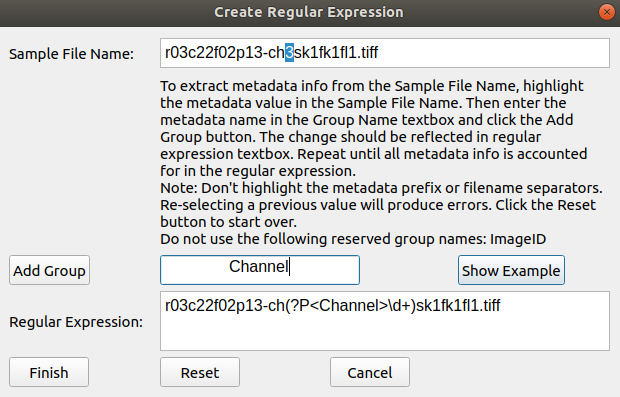
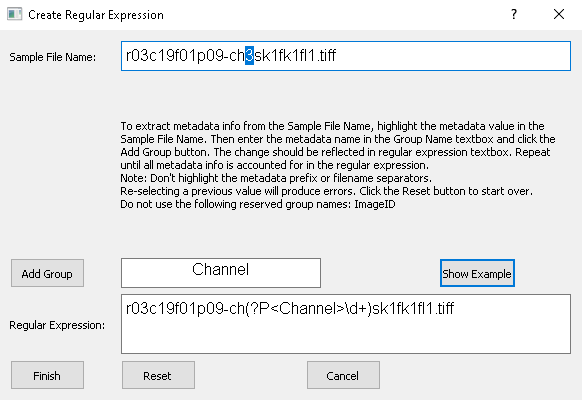
Fix operation of regex builder, include correct and incorrect examples (#5)
* add scrollbars to selectwindow (#113)

* remove commented-out lines/packages, edit comments, error if featurefile path not found (#114)

* import/export session fix + manual, regex example image pyinstaller (#115)

* Correct the methodology used in regex builder (#116)

* Package regex_example.png with executable and allow access to it in temp directory

* Correct regex builder method. Clean up debugging code.

* Improve detail of the comment in addRegexGroup

* Minor correction to comment

* add regex example (#117)

diff --git a/Phindr3D-Python/src/GUI/windows/regexWindow.py b/Phindr3D-Python/src/GUI/windows/regexWindow.py
@@ -17,7 +17,6 @@
 from PyQt5.QtWidgets import *
 from PyQt5.QtGui import *
 from PyQt5.QtCore import *
-# import re
 from array import *
 import os
 
@@ -29,7 +28,8 @@ class regexWindow(QDialog):
         self.samplefile = ""
         self.regex = r""
         # Use the Python array datatype to track map from filename to regex
-        self.fileToRegexPos = array('I')
+        # (type signed int)
+        self.fileToRegexPos = array('i')
         # There are column headers (groups) that are reserved or generated by
         # the metadata file writer. The list is below. Add the 'append' value to fix
         self.reservedKeys = ["ImageID"]
@@ -95,15 +95,19 @@ class regexWindow(QDialog):
         cancel.setFixedSize(cancel.minimumSizeHint())
         cancel.setFixedHeight(30)
 
-
-
         def addRegexGroup():
-            # The array fileToRegex tracks the change in indices of letters
+            # The array fileToRegexPos tracks where characters in
+            # the original sample file are in the regular expression
             # as group labels are added to the regex
+            # Use 9999 as the previous use value for safety. The type of fileToRegexPos
+            # is set to 'i' (signed int), but if it is set to 'I' (unsigned int),
+            # using -1 as the previousUseVal crashes the program (full crash, not Python error).
+            previousUseVal = 9999
             try:
                 filename = self.samplefilebox.toPlainText()
                 cursor = self.samplefilebox.textCursor()
                 selstart = cursor.selectionStart()
+                # cursor.selectionEnd returns the next index AFTER the selection
                 selend = cursor.selectionEnd()
                 sellength = len(cursor.selectedText())
                 groupName = groupbox.text()
@@ -117,7 +121,19 @@ class regexWindow(QDialog):
                 errWin.exec()
                 return
 
+            # Test all values in the selection. If any are equal to previousUseVal,
+            # part of this text was included in a previous selection.
+            # Show error window and return from this function
+            testVal = any(ele == previousUseVal for ele in self.fileToRegexPos[selstart:selend])
+            if testVal:
+                errWin = self.buildErrorWindow("You have already defined a group that includes part or all "
+                    + "of your current selection. To redefine parts of the file name, click Reset to start over.",
+                    QMessageBox.Critical, "Previously Selected Characters")
+                errWin.exec()
+                return
+
             groupValue = filename[selstart:selend]
+
             # If no group name has been entered, do nothing
             # Otherwise, check if it is in the reserved keys list and fix it
             if groupName == "" or groupName is None:
@@ -137,14 +153,21 @@ class regexWindow(QDialog):
                 reend = self.fileToRegexPos[selend]
             except IndexError:
                 return
+
             # Insert the grouplabel into the regex
             self.regex = self.regex[:restart] + grouplabel + self.regex[reend:]
+
+            # Set the selected characters to previousUseVal
+            for ix in range(selstart, selend):
+                self.fileToRegexPos[ix] = int(previousUseVal)
+
             # Get the length of grouplabel, and move the indices in fileToRegex
             lenGroupLabel = len(grouplabel)
             # Number of elements in the array after the new insertion
-            elAfterLabel = len(self.fileToRegexPos[selstart:])
-            for changeIndex in range(elAfterLabel):
-                self.fileToRegexPos[selstart+changeIndex-1] += (lenGroupLabel-sellength)
+            elAfterLabel = len(self.fileToRegexPos[selend:])
+            for cx in range(elAfterLabel):
+                addVal = 0 if self.fileToRegexPos[selend+cx] == previousUseVal else (lenGroupLabel - sellength)
+                self.fileToRegexPos[selend+cx] += addVal
 
             self.regexview.setText(self.regex)
             groupbox.clear()
@@ -157,9 +180,10 @@ class regexWindow(QDialog):
             self.regexview.setText(self.regex)
             groupbox.clear()
             groupbox.setPlaceholderText("Group Name")
-            # Reset the array
-            self.fileToRegexPos = array('I')
+            # Reset the array (type signed int)
+            self.fileToRegexPos = array('i')
             # Fill the index values in the array
+            # (back to first positions)
             for ix in range(len(self.samplefile)):
                 self.fileToRegexPos.append(ix)
 
@@ -191,8 +215,8 @@ class regexWindow(QDialog):
         self.samplefilebox.setText(self.samplefile)
         self.regex = self.samplefile
         self.regexview.setText(self.regex)
-        # Reset the array
-        self.fileToRegexPos = array('I')
+        # Reset the array (type signed int)
+        self.fileToRegexPos = array('i')
         # Fill the index values in the array
         for ix in range(len(self.samplefile)):
             self.fileToRegexPos.append(ix)
@@ -204,21 +228,34 @@ class regexWindow(QDialog):
         alert.setIcon(icon)
         return alert
 
+import sys
 class example_regex(QDialog):
     def __init__(self):
         super(example_regex, self).__init__()
         layout = QGridLayout()
         self.setWindowTitle("Example Regex")
+        try:
+            # _MEIPASS is a temporary directory that only exists
+            # while running a compiled executable
+            path = sys._MEIPASS #run Phindr.exe (pyinstaller temp folder)
+        except:
+            path = os.path.dirname(os.path.abspath(__file__)) #run Phindr.py script
 
-        examplelabel = QLabel("Ex) If trying to extract ch3 which represents Channel 3, highlight 3 and put Channel in the Group Name textbox then click Add Group")
-        examplelabel.setWordWrap(True)
-        #example image
-        img = QLabel()
-        path = os.path.dirname(os.path.abspath(__file__))
-        img.setPixmap(QPixmap(os.path.join(path, 'regex_example.png')))
+        # example image 1
+        examplelabel1 = QLabel("Ex 1) If trying to extract ch3 which represents Channel 3, highlight 3 and put Channel in the Group Name textbox then click Add Group")
+        examplelabel1.setWordWrap(True)
+        ex1_img = QLabel()
+        ex1_img.setPixmap(QPixmap(os.path.join(path, 'regex_example.png')))
+        #example image 2
+        examplelabel2 = QLabel("Ex 2) Don't highlight metadata prefix/separators in Sample File Name. In the example below 'f01' represents Field 01 where 'f' is the metadata prefix")
+        examplelabel2.setWordWrap(True)
+        incorrect_img = QLabel()
+        incorrect_img.setPixmap(QPixmap(os.path.join(path, 'regex_incorrect_example.png')))
         #add Widgets/layout
-        layout.addWidget(examplelabel, 0, 0)
-        layout.addWidget(img, 1, 0)
+        layout.addWidget(examplelabel1, 0, 0)
+        layout.addWidget(ex1_img, 1, 0, Qt.AlignCenter)
+        layout.addWidget(examplelabel2, 2, 0)
+        layout.addWidget(incorrect_img, 3, 0)
         self.setLayout(layout)
         self.show()
         self.exec()
@@ -231,6 +268,9 @@ if __name__ == '__main__':
 
     # Set test file
     window.samplefile = "r03c19f01p09-ch1sk1fk1fl1.tiff"
+    # window.samplefile = "image1__T111__z2__ch3__dla.tiff"
+    # window.samplefile = "Wr02c02__F1__Z2__CH2__ID1__OB2.tiff"
+    # window.samplefile = "P1__Wr02c02__F1__CH1__TEV__Z50__ID1__OB1.tiff"
 
     window.inputSampleFile()
     window.show()

diff --git a/Phindr3D-Python/src/GUI/MainGUI.py b/Phindr3D-Python/src/GUI/MainGUI.py
@@ -92,17 +92,41 @@ class MainGUI(QWidget, external_windows):
                 #retrieve and set imported data
                 curfile=self.metadata.GetMetadataFilename()
                 with open(filename, 'rb') as f:
-                    self.metadata = pickle.load(f)
-                    self.metapandas = pd.DataFrame.from_dict(pickle.load(f), orient='index').T #metadata file as pandas dataframe
+                    session = pickle.load(f)
+                    session_pd = pd.DataFrame.from_dict(pickle.load(f), orient='index').T #metadata file as pandas dataframe
                     data= pickle.load(f)
-                    if not param:
+                    if not param: #imports the session
+                        self.metadata = session
+                        self.metapandas = session_pd
                         self.color = data.get('color')
                         self.ch_len= data.get('ch_len')
-                    else:
+                        self.bounds = data.get('bounds')[0]
+                        self.thresh = data.get('threshold')[0]
+                    else: #imports the parameters
                         self.metadata.SetMetadataFilename(curfile)# retain current metadatafile name if only parameters
-                        del self.metapandas
-                    self.bounds = data.get('bounds')[0]
-                    self.thresh = data.get('threshold')[0]
+                        self.metadata.countBackground=session.countBackground
+                        self.metadata.theTileInfo=session.theTileInfo
+                        metaheader = list(pd.read_csv(self.metadata.GetMetadataFilename(), nrows=1, sep='\t'))
+                        #check compatibility of imported trainingcol
+                        if session.trainbycondition and session.trainingColforImageCategories in metaheader:
+                            self.metadata.trainbycondition=session.trainbycondition
+                            self.metadata.trainingColforImageCategories=session.trainingColforImageCategories
+                        #check compatibility of imported threshold/bounds
+                        if np.shape(self.thresh)== np.shape(data.get('threshold')[0]) and np.shape(self.bounds) == np.shape(data.get('bounds')[0]):
+                            self.thresh = data.get('threshold')[0]
+                            self.bounds = data.get('bounds')[0]
+                        #check compatibility of imported normpertreatment
+                        if session.intensityNormPerTreatment and session.treatmentColNameForNormalization in metaheader:
+                            metacol=pd.read_csv(self.metadata.GetMetadataFilename(), sep='\t', usecols=[session.treatmentColNameForNormalization])
+                            self.metadata.intensityNormPerTreatment = session.intensityNormPerTreatment
+                            self.metadata.treatmentColNameForNormalization = session.treatmentColNameForNormalization
+                            if(metacol[session.treatmentColNameForNormalization].nunique(), self.ch_len) == np.shape(data.get('bounds')[0])[1:]:
+                                self.bounds = data.get('bounds')[0]
+                                self.thresh = data.get('threshold')[0]
+                            else:
+                                self.metadata.computeImageParameters()
+                                self.thresh = self.metadata.intensityThresholdValues
+                                self.bounds = [self.metadata.lowerbound, self.metadata.upperbound]
                     self.voxelGroups = VoxelGroups(self.metadata)
                     self.voxelGroups.numVoxelBins = data.get('numVoxelBins')
                     self.voxelGroups.numMegaVoxelBins = data.get('numMegaVoxelBins')
@@ -550,7 +574,6 @@ class MainGUI(QWidget, external_windows):
         alert.exec()
 
     def closeEvent(self, event):
-        #print("closed all windows")
         for window in QApplication.topLevelWidgets():
             window.close()
 

diff --git a/Phindr3D-Python/src/VoxelGroups/VoxelGroups.py b/Phindr3D-Python/src/VoxelGroups/VoxelGroups.py
@@ -14,7 +14,6 @@
 # You should have received a copy of the GNU General Public License
 # along with Phindr3D.  If not, see <http://www.gnu.org/licenses/>.
 
-#from mahotas.features import texture
 import time
 import imageio.v2 as io
 import matplotlib.pyplot as plt
@@ -81,10 +80,6 @@ class VoxelGroups():
         self.pixelImage.getPixelBinCenters(self.metadata, training)
         self.superVoxelImage.getSuperVoxelBinCenters(self.metadata, training, self.pixelImage)
         self.megaVoxelImage.getMegaVoxelBinCenters(self.metadata, training, self.pixelImage, self.superVoxelImage)
-
-        print("Pixels:", self.pixelImage.pixelBinCenters)
-        print("Super Voxels:", self.superVoxelImage.superVoxelBinCenters)
-        print("Mega Voxels:", self.megaVoxelImage.megaVoxelBinCenters)
 
         return True
     # end phindVoxelGroups
@@ -169,7 +164,6 @@ class VoxelGroups():
         if csv_name[-4:] != '.txt':
             csv_name = csv_name + '.txt'
         df.to_csv(csv_name, index=None, sep='\t')
-        print('\nAll done.')
         #return param, resultIM, resultRaw, df #, metaIndexTmp
         # Missing a first parameter from the return list
         return resultIM, resultRaw, df  # , metaIndexTmp
@@ -220,14 +214,6 @@ if __name__ == '__main__':
         test_portion = test_output.iloc[:, -41:]
         print('Phindr3D output matches expected results:', (test_portion.equals(expected_portion)))
         os.remove('testdata/metadata_tests/check_results.txt')
-
-
-
-
-    #load metadata, compute parameters
-    #phind bincenters in a deterministic manner + compare to expected result
-    #compute phindr3D results on synthetic image set with the deterministic bincenters + compare to expected results.
-
     else:
         print("loadMetadataFile was unsuccessful")
 

diff --git a/Phindr3D-Python/src/GUI/windows/helperclasses.py b/Phindr3D-Python/src/GUI/windows/helperclasses.py
@@ -84,6 +84,11 @@ class selectWindow(object):
             ch_vbox.addStretch(1)
             ch_box.setLayout(ch_vbox)
             win.layout().addWidget(ch_box, 0, 2)
+            #Scroll if labels exceed window size
+            scrollArea = QScrollArea()
+            scrollArea.setWidget(ch_box)
+            scrollArea.setWidgetResizable(True)
+            win.layout().addWidget(scrollArea, 0, 2)
             win.layout().addWidget(ok_button, 1, 2)
             if len(chk_lbl) == 0:
                 ok_button.clicked.connect(lambda: win.close())
@@ -116,6 +121,11 @@ class selectWindow(object):
             grp_vbox.addStretch(1)
             self.grp_checkbox.setLayout(grp_vbox)
             win.layout().addWidget(self.grp_checkbox, chk_loc[0], chk_loc[1])
+            #scroll if labels exceed window size
+            scrollArea = QScrollArea()
+            scrollArea.setWidget(self.grp_checkbox)
+            scrollArea.setWidgetResizable(True)
+            win.layout().addWidget(scrollArea, chk_loc[0], chk_loc[1])
             if all_btn:
                 # select all button
                 all_button = QPushButton("Select All")
@@ -134,7 +144,6 @@ class selectWindow(object):
                 errorWindow("Filter by Feature Error", "Must Select At Least One Feature")
         if close:
             for checkbox in grp_checkbox.findChildren(QCheckBox):
-                # print('%s: %s' % (checkbox.text(), checkbox.isChecked()))
                 if checkbox.isChecked():
                     groupings.append(checkbox.text())
         self.x_press=False

diff --git a/Phindr3D-Python/src/GUI/windows/plot_functions.py b/Phindr3D-Python/src/GUI/windows/plot_functions.py
@@ -172,6 +172,7 @@ def import_file(self, map_dropdown, colordropdown, twod, threed):
             try:
                 data=json.load(f)
                 if list(data.keys())==['plot_projection','plot_coordinates','x_limit','y_limit','z_limit', 'feature_filename']:
+                    if os.path.exists(data.get('feature_filename')):
                         plot_coord=[np.array(plot_data) for plot_data in data.get('plot_coordinates')]
                         if len(plot_coord)==3:
                             self.plot_data.clear()
@@ -191,6 +192,8 @@ def import_file(self, map_dropdown, colordropdown, twod, threed):
                             self.loadFeaturefile(colordropdown, map_dropdown.currentText(), False, data.get('feature_filename'))
                         else:
                             errorWindow("Import Plot Data Error","Check JSON file. 'plot_coordinates' must be 3D (list of x, y, z coordinates)")
+                    else:
+                        errorWindow("Import Plot Data Error","Feature File Path found in selected Plot Data file does not exist: \n'{}'".format(data.get('feature_filename')))
                 else:
                     errorWindow("Import Plot Data Error", "Check if correct file. Requires Following Labels: plot_projection, plot_coordinates, x_limit , y_limit ,z_limit, 'feature_filename'")
             except Exception as ex:

diff --git a/Phindr3D-Python/src/Training/Training.py b/Phindr3D-Python/src/Training/Training.py
@@ -14,21 +14,6 @@
 # You should have received a copy of the GNU General Public License
 # along with Phindr3D.  If not, see <http://www.gnu.org/licenses/>.
 
-"""
-Ok, when are things supposed to happen?
-
-so metadata gets loaded, and then?
-
-
-
-
-
-
-
-"""
-
-
-from .TrainingFunctions import *
 from ..PhindConfig.PhindConfig import *
 
 
@@ -51,11 +36,11 @@ class Training:
         self.trainingPerColumn = PhindConfig.trainingPerColumn
         self.superVoxelPerField = PhindConfig.superVoxelPerField
 
-        # params to be defined later (in training functions)
+        # params to be defined later (in voxelGroups folder)
         # self.intensityThresholdValues = None  #gets computed at metadata loading stage
         # self.randZForTraining = None          #gets computed on a per-image basis during category making
         # self.randFieldID = None               #gets determined at metadata loading stage for scaling and thresholding
-        # self.randTrainingPerTreatment = None  #not sure about this one (intensity threshold values and scaling factors should already reflect training per treatment if chosen)
+        # self.randTrainingPerTreatment = None  #(intensity threshold values and scaling factors should already reflect training per treatment if chosen)
 
     # end constructor
 

diff --git a/Phindr3D-Python/src/VoxelGroups/SuperVoxelImage.py b/Phindr3D-Python/src/VoxelGroups/SuperVoxelImage.py
@@ -46,8 +46,6 @@ class SuperVoxelImage(VoxelBase):
                 else:
                     tmp2Add = np.array([tmp[i, :] for i in metadata.Generator.Generator.choice(tmp.shape[0], size=training.superVoxelPerField, replace=False, shuffle=False)])
                     tilesForTraining = np.concatenate((tilesForTraining, tmp2Add))
-        #np.savetxt(r'C:\Users\teole\OneDrive\Desktop\just checking can delete1.txt', superVoxelProfile)
-        #np.savetxt(r'C:\Users\teole\OneDrive\Desktop\just checking can delete2.txt', fgSuperVoxel)
         if len(tilesForTraining) == 0:
             print('\nNo foreground super-voxels found. consider changing parameters') 
         if metadata.Generator.seed == 1234:

diff --git a/Phindr3D-Python/src/GUI/windows/interactive_click.py b/Phindr3D-Python/src/GUI/windows/interactive_click.py
@@ -263,8 +263,6 @@ class interactive_points():
                                         self.data[1][label_ind[imin]],
                                         self.data[2][label_ind[imin]], s=35, facecolor="none",
                                         edgecolor='gray', alpha=1)
-            #for debugging
-            #print(self.data[0][label_ind[imin]], self.data[1][label_ind[imin]], self.data[2][label_ind[imin]])
             self.main_plot.draw()
             self.main_plot.figure.canvas.draw_idle()
             self.buildImageViewer(self.labels,label, imin,self.color,self.feature_file, self.imageID)

diff --git a/Phindr3D-Python/src/Data/Metadata.py b/Phindr3D-Python/src/Data/Metadata.py
@@ -138,6 +138,7 @@ class Metadata:
                     and (metadata.at[i, channel].endswith(".tiff")
                          or metadata.at[i, channel].endswith(".tif")):
                     row.append(metadata.at[i, channel])
+                #for linux (replace backslash with forward slash paths)
                 #if os.path.exists(metadata[channel].str.replace(r'\\', '/', regex=True)[i]) and (metadata.at[i, channel].endswith(".tiff") or metadata.at[i, channel].endswith(".tif")):
                 #    row.append(metadata[channel].str.replace(r'\\', '/', regex=True)[i])
                 else:

diff --git a/Phindr3D-Python/src/GUI/windows/resultsWindow.py b/Phindr3D-Python/src/GUI/windows/resultsWindow.py
@@ -157,8 +157,6 @@ class resultsWindow(QDialog):
         filename=''
         if new_plot:
             filename, dump = QFileDialog.getOpenFileName(self, 'Open Feature File', '', 'Text files (*.txt)')
-        elif isinstance(prevfile, str) and os.path.exists(prevfile) == False:
-            errorWindow("Feature File Error","Feature File Path found in selected Plot Data file does not exist: \n'{}'".format(prevfile))
         if filename != '' or (not isinstance(prevfile, type(None)) and os.path.exists(prevfile)):
             try:
                 self.feature_file.clear()

diff --git a/Phindr3D-Python/src/Training/TrainingFunctions.py b/Phindr3D-Python/src/Training/TrainingFunctions.py
@@ -56,7 +56,7 @@ class TrainingFunctions:
         if len(np.unique(lbls))>1:
             win=selectWindow(np.unique(lbls), "", "Select Classes", "Classes", "", select_grps)
             if win.x_press:
-                print("Cancelled")
+                pass #print("Cancelled")
             elif len(select_grps)>1:
                 pts=[len(np.array(np.where(lbls==grp)[0], dtype=int)) for grp in select_grps]
                 if min(pts)>1:

diff --git a/Phindr3D-Python/src/VoxelGroups/VoxelBase.py b/Phindr3D-Python/src/VoxelGroups/VoxelBase.py
@@ -27,7 +27,6 @@ except ImportError:
     from src.PhindConfig.PhindConfig import *
 
 import matplotlib.pyplot as plt
-#from mahotas.features import texture
 import mahotas as mt
 
 class VoxelBase:
